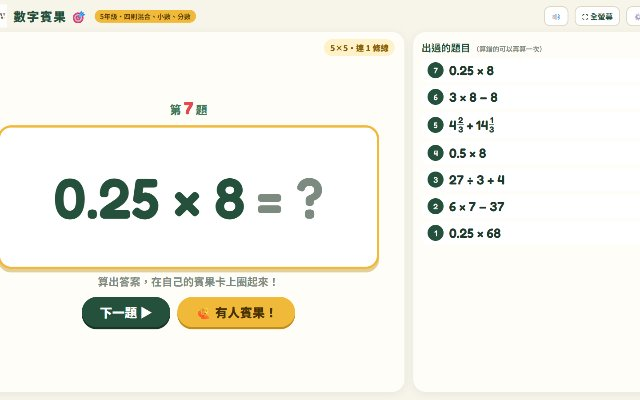
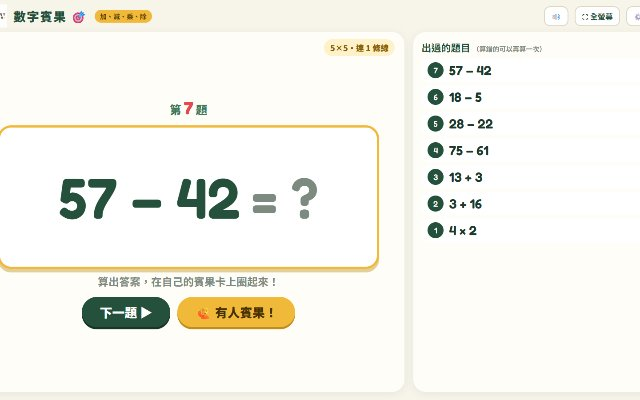
遊戲題目改簡單：只出兩個數字的加減乘除（除法只出九九乘法反過來）

diff --git a/shared/common.js b/shared/common.js
@@ -54,65 +54,26 @@ function setupTopButtons() {
   const fb = $('fsBtn'); if (fb) fb.onclick = () => { if (document.fullscreenElement) document.exitFullscreen(); else if (document.documentElement.requestFullscreen) document.documentElement.requestFullscreen(); };
 }
 
-// ================= 出題：先決定答案 a，再依單元出一個算式 =================
-const TOPICS = { add: '加減', mul: '乘法', div: '除法', mix: '四則混合', dec: '小數', frac: '分數' };
-const GRADE_TOPICS = { 3: ['add', 'mul', 'div'], 4: ['mul', 'div', 'mix'], 5: ['mix', 'dec', 'frac'], 6: ['mix', 'dec', 'frac'] };
-const d1 = x => (x / 10).toFixed(1);
+// ================= 出題：先決定答案 a，再出「兩個數字」的加減乘除 =================
+const OPS = { add: '➕ 加', sub: '➖ 減', mul: '✖ 乘', div: '➗ 除' };
+const ALL_OPS = ['add', 'sub', 'mul', 'div'];
 const BUILD = {
-  add(a, g) {
-    const big = g >= 4 ? 2000 : 600;
-    if (Math.random() < .5) { const y = rnd(11, big); return `${a + y} − ${y}`; }
-    const z = rnd(11, Math.round(big / 3)), s = a + z, x = rnd(1, s - 1); return `${x} + ${s - x} − ${z}`;
-  },
-  mul(a, g) {
-    if (a < 4) return null;
-    const pairs = []; for (let p = 2; p <= 9; p++) if (a % p === 0 && a / p >= 2 && a / p <= (g >= 4 ? 99 : 9)) pairs.push(p);
-    if (pairs.length && Math.random() < .65) { const p = pick(pairs); return Math.random() < .5 ? `${p} × ${a / p}` : `${a / p} × ${p}`; }
-    for (let i = 0; i < 30; i++) { const p = rnd(2, 9), q = Math.floor(a / p), r = a - p * q; if (q < 2 || (g < 4 && q > 9)) continue;
-      if (r === 0) return `${q} × ${p}`; if (Math.random() < .5) return `${q} × ${p} + ${r}`;
-      if ((q + 1) * p - a > 0 && (g >= 4 || q + 1 <= 9)) return `${q + 1} × ${p} − ${(q + 1) * p - a}`; return `${q} × ${p} + ${r}`; }
-    return null;
-  },
-  div(a, g) { const d = g >= 4 ? rnd(2, 25) : rnd(2, 9); return `${a * d} ÷ ${d}`; },
-  mix(a, g) {
-    for (let i = 0; i < 60; i++) {
-      const f = rnd(1, 5);
-      if (f === 1) { const x = rnd(2, 9), y = rnd(2, 9), z = x * y - a; if (z >= 1) return `${x} × ${y} − ${z}`; }
-      if (f === 2) { const y = rnd(2, 9), z = rnd(2, 9), x = a - y * z; if (x >= 1) return `${x} + ${y} × ${z}`; }
-      if (f === 3) { const z = rnd(2, 9); if (a % z === 0 && a / z >= 2) { const s = a / z, x = rnd(1, s - 1); return `(${x} + ${s - x}) × ${z}`; } }
-      if (f === 4) { if (a >= 2) { const y = rnd(2, 9), q = rnd(1, a - 1); return `${q * y} ÷ ${y} + ${a - q}`; } }
-      if (f === 5) { const x = rnd(2, 9); if (a % x === 0) { const z = rnd(1, 20); return `${x} × (${a / x + z} − ${z})`; } }
-    }
-    return null;
-  },
-  dec(a) {
-    const opts = [];
-    { let p; do p = rnd(1, 10 * a - 1); while (p % 10 === 0 && 10 * a > 10); if (p % 10) opts.push(`${d1(p)} + ${d1(10 * a - p)}`); }
-    { let y; do y = rnd(1, 99); while (y % 10 === 0); opts.push(`${d1(10 * a + y)} − ${d1(y)}`); }
-    opts.push(`0.5 × ${2 * a}`); if (a <= 30) opts.push(`0.25 × ${4 * a}`);
-    if (a % 3 === 0) opts.push(`1.5 × ${a / 1.5}`); if (a % 5 === 0) opts.push(`2.5 × ${a / 2.5}`); if (a % 6 === 0) opts.push(`1.2 × ${a / 1.2}`);
-    return pick(opts);
-  },
-  frac(a) {
-    const opts = [];
-    if (a >= 2) { const d = rnd(3, 9), n = pick(coprimes(d)), x = rnd(0, a - 1), y = a - 1 - x;
-      opts.push(`${x || ''}[${n}/${d}] + ${y || ''}[${d - n}/${d}]`); }
-    const fs = []; for (let d = 2; d <= 9; d++) for (let n = 1; n < d; n++) if (gcd(n, d) === 1 && a % n === 0) fs.push([n, d]);
-    if (fs.length) { const [n, d] = pick(fs); opts.push(`[${n}/${d}] × ${a / n * d}`); }
-    { const d = rnd(3, 9), n = pick(coprimes(d)), y = rnd(1, 5); opts.push(`${a + y}[${n}/${d}] − ${y}[${n}/${d}]`); }
-    return pick(opts);
-  },
+  add(a) { if (a < 2) return null; const x = rnd(1, a - 1); return `${x} + ${a - x}`; },
+  sub(a) { if (a > 98) return null; const y = rnd(1, 99 - a); return `${a + y} − ${y}`; },
+  mul(a) { const ps = []; for (let p = 2; p <= 9; p++) if (a % p === 0 && a / p >= 2 && a / p <= 9) ps.push(p); if (!ps.length) return null; const p = pick(ps); return `${p} × ${a / p}`; },
+  div(a) { if (a > 9) return null; const d = rnd(2, 9); return `${a * d} ÷ ${d}`; }, // 只出九九乘法反過來
 };
-// 算式字串 → HTML（[n/d] 是分數，前面的整數是帶分數的整數部分）
-function exprHTML(s) {
-  return '<span class="expr">' + s.replace(/(\d*)\[(\d+)\/(\d+)\]/g, (m, w, n, d) => `<span class="mixed">${w}<span class="fr"><span>${n}</span><span>${d}</span></span></span>`) + '</span>';
+// 算式字串 → HTML
+function exprHTML(s) { return '<span class="expr">' + s + '</span>'; }
+function exprText(s) { return s; }
+// 給答案 a 出一題；ops 是要用的運算（選的運算出不了這個答案，就換別的運算）
+function makeQ(a, ops) {
+  for (const t of shuffle(ops.slice())) { const e = BUILD[t](a); if (e) return { expr: e, answer: a, op: t }; }
+  for (const t of shuffle(ALL_OPS.slice())) { const e = BUILD[t](a); if (e) return { expr: e, answer: a, op: t }; }
+  return { expr: `${a + 1} − 1`, answer: a, op: 'sub' };
 }
-function exprText(s) { return s.replace(/(\d*)\[(\d+)\/(\d+)\]/g, (m, w, n, d) => (w ? w + '又' : '') + n + '/' + d); }
-// 給答案 a 出一題；topics 是單元代號陣列，g 是年級
-function makeQ(a, topics, g) {
-  for (const t of shuffle(topics.slice())) { const e = BUILD[t](a, g); if (e) return { expr: e, answer: a, topic: t }; }
-  return { expr: BUILD.add(a, g), answer: a, topic: 'add' };
-}
+function cleanOps(o) { const r = (o || []).filter(x => ALL_OPS.includes(x)); return r.length ? r : ALL_OPS.slice(); }
+function opsTag(ops) { return ops.map(t => OPS[t].split(' ')[1]).join('、'); }
 
 // ================= 設定面板（年級＋單元） =================
 // segRow(容器id, 選項[[值,文字]], 目前值, 選了之後)
@@ -126,7 +87,6 @@ function segRow(id, opts, cur, onPick, multi) {
 }
 function loadSettings(key, def) { try { return Object.assign({}, def, JSON.parse(localStorage.getItem(key) || '{}')); } catch (_) { return Object.assign({}, def); } }
 function saveSettings(key, s) { localStorage.setItem(key, JSON.stringify(s)); }
-function topicTag(s) { return `${s.grade}年級・` + s.topics.map(t => TOPICS[t]).join('、'); }
 
 // ================= 動物跳舞慶祝 =================
 const ANIMALS = ['monkey', 'panda', 'frog', 'chick'];

diff --git a/ttt/index.html b/ttt/index.html
@@ -83,9 +83,8 @@
 <div class="ov dim" id="setOv">
   <div class="panel">
     <h2>⭕❌ 圈圈叉叉・設定</h2>
-    <div class="row"><span class="lab">年級</span><div class="seg" id="sGrade"></div></div>
-    <div class="row"><span class="lab">單元</span><div class="seg" id="sTopics"></div></div>
-    <div class="desc">可以複選；正中間那格是「⭐挑戰題」，數字比較大</div>
+    <div class="row"><span class="lab">算式</span><div class="seg" id="sOps"></div></div>
+    <div class="desc">都是兩個數字的計算，可以複選</div>
     <div class="row"><span class="lab">每題時間</span><div class="seg" id="sTime"></div></div>
     <div class="desc">兩隊輪流挑一格答題，答對才能畫上自己的 O 或 X，先連成一條線的隊伍贏！</div>
     <button class="start" id="startBtn">開始！</button>
@@ -95,21 +94,23 @@
 <script src="../shared/common.js"></script>
 <script>
 const KEY = 'ttt_settings';
-let S = loadSettings(KEY, { grade: 3, topics: GRADE_TOPICS[3], time: 30 });
+let S = loadSettings(KEY, { ops: ALL_OPS, time: 30 }); S.ops = cleanOps(S.ops);
 const LINES = [[0, 1, 2], [3, 4, 5], [6, 7, 8], [0, 3, 6], [1, 4, 7], [2, 5, 8], [0, 4, 8], [2, 4, 6]];
 const NAME = { O: '圈圈隊', X: '叉叉隊' }, COLOR = { O: 'var(--o)', X: 'var(--x)' };
 let score = { O: 0, X: 0 }, starter = 'O', G = {};
 setupTopButtons();
 
 // 每格答案的範圍（正中間⭐挑戰題比較大）
-function answerFor(cell) {
-  const base = { 3: [6, 81], 4: [12, 150], 5: [6, 60], 6: [8, 90] }[S.grade];
-  return cell === 4 ? rnd(Math.round(base[1] * .6), Math.round(base[1] * 1.6)) : rnd(base[0], base[1]);
+// 找一個選的運算出得了的答案（只選乘法就不會出質數）
+function qFor(cell) {
+  const [lo, hi] = cell === 4 ? [31, 81] : [4, 30];
+  for (let i = 0; i < 80; i++) { const a = rnd(lo, hi), ops = S.ops.filter(t => BUILD[t](a)); if (ops.length) return makeQ(a, ops); }
+  return makeQ(rnd(lo, hi), S.ops);
 }
 function newRound() {
   G = { cells: Array(9).fill(''), turn: starter, over: false };
   starter = starter === 'O' ? 'X' : 'O'; // 下一局換另一隊先
-  $('tag').textContent = topicTag(S);
+  $('tag').textContent = opsTag(S.ops);
   draw(); msg(`${NAME[G.turn]}先！挑一格答題`);
 }
 function draw() {
@@ -128,7 +129,7 @@ function msg(t) { $('msg').innerHTML = t; }
 let timerT = null;
 function ask(i) {
   if (G.over) return; SFX.flip();
-  const q = makeQ(answerFor(i), S.topics, S.grade);
+  const q = qFor(i);
   $('qWho').innerHTML = `<span style="color:${COLOR[G.turn]}">${NAME[G.turn]}</span> 挑第 ${i + 1} 格${i === 4 ? '・⭐挑戰題' : ''}`;
   $('qExpr').innerHTML = exprHTML(q.expr) + '<span class="expr" style="color:var(--muted)">&nbsp;= ?</span>';
   $('qAns').textContent = '';
@@ -175,8 +176,7 @@ $('resetBtn').onclick = () => { starter = G.turn === 'O' ? 'O' : 'X'; newRound()
 // 設定
 let T = {};
 function drawSet() {
-  segRow('sGrade', [[3, '三年級'], [4, '四年級'], [5, '五年級'], [6, '六年級']], T.grade, v => { T.grade = v; T.topics = GRADE_TOPICS[v].slice(); drawSet(); });
-  segRow('sTopics', Object.entries(TOPICS), T.topics, v => { T.topics = T.topics.includes(v) ? T.topics.filter(x => x !== v) : [...T.topics, v]; if (!T.topics.length) T.topics = [v]; drawSet(); }, true);
+  segRow('sOps', Object.entries(OPS), T.ops, v => { T.ops = T.ops.includes(v) ? T.ops.filter(x => x !== v) : [...T.ops, v]; if (!T.ops.length) T.ops = [v]; drawSet(); }, true);
   segRow('sTime', [[0, '不計時'], [20, '20 秒'], [30, '30 秒'], [60, '60 秒']], T.time, v => { T.time = v; drawSet(); });
 }
 $('setBtn').onclick = () => { T = JSON.parse(JSON.stringify(S)); drawSet(); $('setOv').classList.add('show'); };

diff --git a/heart/index.html b/heart/index.html
@@ -69,9 +69,8 @@
 <div class="ov dim" id="setOv">
   <div class="panel">
     <h2>💓 心臟病・設定</h2>
-    <div class="row"><span class="lab">年級</span><div class="seg" id="sGrade"></div></div>
-    <div class="row"><span class="lab">單元</span><div class="seg" id="sTopics"></div></div>
-    <div class="desc">心臟病要算很快，建議選簡單一點的單元</div>
+    <div class="row"><span class="lab">算式</span><div class="seg" id="sOps"></div></div>
+    <div class="desc">都是兩個數字的計算，可以複選</div>
     <div class="row"><span class="lab">數到幾</span><div class="seg" id="sMax"></div></div>
     <div class="row"><span class="lab">速度</span><div class="seg" id="sSpeed"></div></div>
     <div class="row"><span class="lab">拍對幾次過關</span><div class="seg" id="sGoalSel"></div></div>
@@ -84,7 +83,7 @@
 <script src="../shared/common.js"></script>
 <script>
 const KEY = 'heart_settings';
-let S = loadSettings(KEY, { grade: 3, topics: ['mul', 'div'], max: 10, speed: 3000, goal: 5, voice: 1 });
+let S = loadSettings(KEY, { ops: ALL_OPS, max: 10, speed: 3000, goal: 5, voice: 1 }); S.ops = cleanOps(S.ops);
 let G = {}, beatT = null;
 setupTopButtons();
 const ZH = ['', '一', '二', '三', '四', '五', '六', '七', '八', '九', '十', '十一', '十二', '十三'];
@@ -92,7 +91,7 @@ const ZH = ['', '一', '二', '三', '四', '五', '六', '七', '八', '九', '
 function newGame() {
   stop();
   G = { count: 0, card: null, ok: 0, miss: 0, bad: 0, running: false, judged: false, sinceMatch: 0 };
-  $('tag').textContent = topicTag(S); $('sGoal').textContent = S.goal;
+  $('tag').textContent = opsTag(S.ops); $('sGoal').textContent = S.goal;
   $('ball').textContent = '–'; $('pcard').innerHTML = '<span class="expr" style="color:#c9c2ad">準備</span><div class="res" id="res"></div>';
   $('verdict').textContent = ''; drawScore(); $('playBtn').textContent = '▶ 開始';
 }
@@ -108,7 +107,7 @@ function beat() {
   G.sinceMatch++;
   if (Math.random() < .33 || G.sinceMatch >= 5) { a = G.count; G.sinceMatch = 0; }
   else { do { a = Math.random() < .6 ? G.count + pick([-2, -1, 1, 2]) : rnd(1, S.max); } while (a < 1 || a > S.max || a === G.count); }
-  G.card = makeQ(a, S.topics, S.grade);
+  G.card = makeQ(a, S.ops);
   const ball = $('ball'); ball.textContent = G.count; ball.classList.remove('beat'); void ball.offsetWidth; ball.classList.add('beat');
   const pc = $('pcard'); pc.innerHTML = exprHTML(G.card.expr) + '<div class="res" id="res"></div>';
   pc.classList.remove('flip'); void pc.offsetWidth; pc.classList.add('flip'); SFX.flip();
@@ -149,8 +148,7 @@ function toast(t) { const el = $('toast'); el.textContent = t; el.style.display 
 // 設定
 let T = {};
 function drawSet() {
-  segRow('sGrade', [[3, '三年級'], [4, '四年級'], [5, '五年級'], [6, '六年級']], T.grade, v => { T.grade = v; T.topics = GRADE_TOPICS[v].slice(); drawSet(); });
-  segRow('sTopics', Object.entries(TOPICS), T.topics, v => { T.topics = T.topics.includes(v) ? T.topics.filter(x => x !== v) : [...T.topics, v]; if (!T.topics.length) T.topics = [v]; drawSet(); }, true);
+  segRow('sOps', Object.entries(OPS), T.ops, v => { T.ops = T.ops.includes(v) ? T.ops.filter(x => x !== v) : [...T.ops, v]; if (!T.ops.length) T.ops = [v]; drawSet(); }, true);
   segRow('sMax', [[5, '1～5'], [10, '1～10'], [13, '1～13']], T.max, v => { T.max = v; drawSet(); });
   segRow('sSpeed', [[4000, '🐢 慢'], [3000, '🚶 中'], [2000, '🐇 快']], T.speed, v => { T.speed = v; drawSet(); });
   segRow('sGoalSel', [[3, '3 次'], [5, '5 次'], [10, '10 次']], T.goal, v => { T.goal = v; drawSet(); });

diff --git a/bingo/index.html b/bingo/index.html
@@ -103,9 +103,8 @@
 <div class="ov dim" id="setOv">
   <div class="panel">
     <h2>🎯 數字賓果・設定</h2>
-    <div class="row"><span class="lab">年級</span><div class="seg" id="sGrade"></div></div>
-    <div class="row"><span class="lab">單元</span><div class="seg" id="sTopics"></div></div>
-    <div class="desc">可以複選；選年級會自動帶入常用單元</div>
+    <div class="row"><span class="lab">算式</span><div class="seg" id="sOps"></div></div>
+    <div class="desc">都是兩個數字的計算，可以複選</div>
     <div class="row"><span class="lab">賓果卡</span><div class="seg" id="sSize"></div></div>
     <div class="row"><span class="lab">幾條線賓果</span><div class="seg" id="sLines"></div></div>
     <button class="start" id="startBtn">開始！</button>
@@ -115,14 +114,14 @@
 <script src="../shared/common.js"></script>
 <script>
 const KEY = 'bingo_settings';
-let S = loadSettings(KEY, { grade: 3, topics: GRADE_TOPICS[3], size: 5, lines: 1 });
+let S = loadSettings(KEY, { ops: ALL_OPS, size: 5, lines: 1 }); S.ops = cleanOps(S.ops);
 let G = {};
 setupTopButtons();
 
 function newGame() {
   const N = S.size * S.size;
   G = { N, pool: shuffle(Array.from({ length: N }, (_, i) => i + 1)), called: [], seen: new Set() };
-  $('tag').textContent = topicTag(S);
+  $('tag').textContent = opsTag(S.ops);
   $('goal').textContent = `${S.size}×${S.size}・連 ${S.lines} 條線`;
   $('qno').innerHTML = '準備開始'; $('hist').innerHTML = '';
   $('qcard').innerHTML = '<span class="expr" style="color:#c9c2ad">？</span>';
@@ -142,7 +141,7 @@ $('introGo').onclick = () => { $('introOv').classList.remove('show'); nextQ(); }
 function nextQ() {
   if (!G.pool.length) { $('qno').innerHTML = '題目出完了！'; $('nextBtn').disabled = true; return; }
   const a = G.pool.pop();
-  let q; for (let i = 0; i < 8; i++) { q = makeQ(a, S.topics, S.grade); if (!G.seen.has(q.expr)) break; }
+  let q; for (let i = 0; i < 8; i++) { q = makeQ(a, S.ops); if (!G.seen.has(q.expr)) break; }
   G.seen.add(q.expr); G.called.push(q);
   const k = G.called.length;
   $('qno').innerHTML = `第 <b>${k}</b> 題`;
@@ -176,8 +175,7 @@ $('okBtn').onclick = async () => {
 // 設定
 let T = {};
 function drawSet() {
-  segRow('sGrade', [[3, '三年級'], [4, '四年級'], [5, '五年級'], [6, '六年級']], T.grade, v => { T.grade = v; T.topics = GRADE_TOPICS[v].slice(); drawSet(); });
-  segRow('sTopics', Object.entries(TOPICS), T.topics, v => { T.topics = T.topics.includes(v) ? T.topics.filter(x => x !== v) : [...T.topics, v]; if (!T.topics.length) T.topics = [v]; drawSet(); }, true);
+  segRow('sOps', Object.entries(OPS), T.ops, v => { T.ops = T.ops.includes(v) ? T.ops.filter(x => x !== v) : [...T.ops, v]; if (!T.ops.length) T.ops = [v]; drawSet(); }, true);
   segRow('sSize', [[4, '4×4（1～16）'], [5, '5×5（1～25）']], T.size, v => { T.size = v; drawSet(); });
   segRow('sLines', [[1, '1 條'], [2, '2 條'], [3, '3 條']], T.lines, v => { T.lines = v; drawSet(); });
 }

diff --git a/index.html b/index.html
@@ -97,13 +97,13 @@ const GAMES = [
     tags: [['g', '全年級'], ['b', '投影全班玩']], home: 'bl' },
   { id: 'bingo', name: '數字賓果 🎯', url: './bingo/', cover: 'img/cover_bingo.jpg',
     desc: '每人畫一張賓果卡，電腦出算式，算出答案就圈起來。算錯就圈錯格喔！',
-    tags: [['g', '三～六年級'], ['b', '投影全班玩'], ['', '要紙筆']], home: 'bl' },
+    tags: [['g', '兩個數字加減乘除'], ['b', '投影全班玩'], ['', '要紙筆']], home: 'bl' },
   { id: 'ttt', name: '圈圈叉叉 ⭕❌', url: './ttt/', cover: 'img/cover_ttt.jpg',
     desc: '兩隊輪流挑格子答題，答對才能畫 O 或 X，先連成一線的隊伍贏！',
-    tags: [['g', '三～六年級'], ['b', '投影全班玩'], ['', '兩隊對戰']], home: 'bl' },
+    tags: [['g', '兩個數字加減乘除'], ['b', '投影全班玩'], ['', '兩隊對戰']], home: 'bl' },
   { id: 'heart', name: '心臟病 💓', url: './heart/', cover: 'img/cover_heart.jpg',
     desc: '大家一起喊 1、2、3…，卡片算出來等於喊的數字就趕快拍桌！',
-    tags: [['g', '三～六年級'], ['b', '投影全班玩'], ['', '練心算速度']], home: 'bl' },
+    tags: [['g', '兩個數字加減乘除'], ['b', '投影全班玩'], ['', '練心算速度']], home: 'bl' },
   { id: '99', name: '九九乘法快閃 ⚡', url: '../99/', cover: 'img/cover_99.jpg',
     desc: '練習模式翻卡慢慢練，挑戰模式 20 題限時，看自己進步多少。',
     tags: [['g', '二、三年級'], ['', '自己玩']], home: 'bl' },

diff --git a/sw.js b/sw.js
@@ -1,5 +1,5 @@
 // 遊戲盒 service worker：有網路就拿最新版，沒網路才用存起來的（遊戲本身還是要網路）
-const CACHE = 'gamebox-v3';
+const CACHE = 'gamebox-v4';
 const FILES = ['./', 'index.html', 'manifest.json', 'img/logo.png', 'img/hulk_wave.png', 'img/icon-192.png', 'img/icon-512.png',
   'img/cover_password.jpg', 'img/cover_99.jpg', 'img/cover_bingo.jpg', 'img/cover_ttt.jpg', 'img/cover_heart.jpg'];
 self.addEventListener('install', e => { e.waitUntil(caches.open(CACHE).then(c => c.addAll(FILES))); self.skipWaiting(); });
